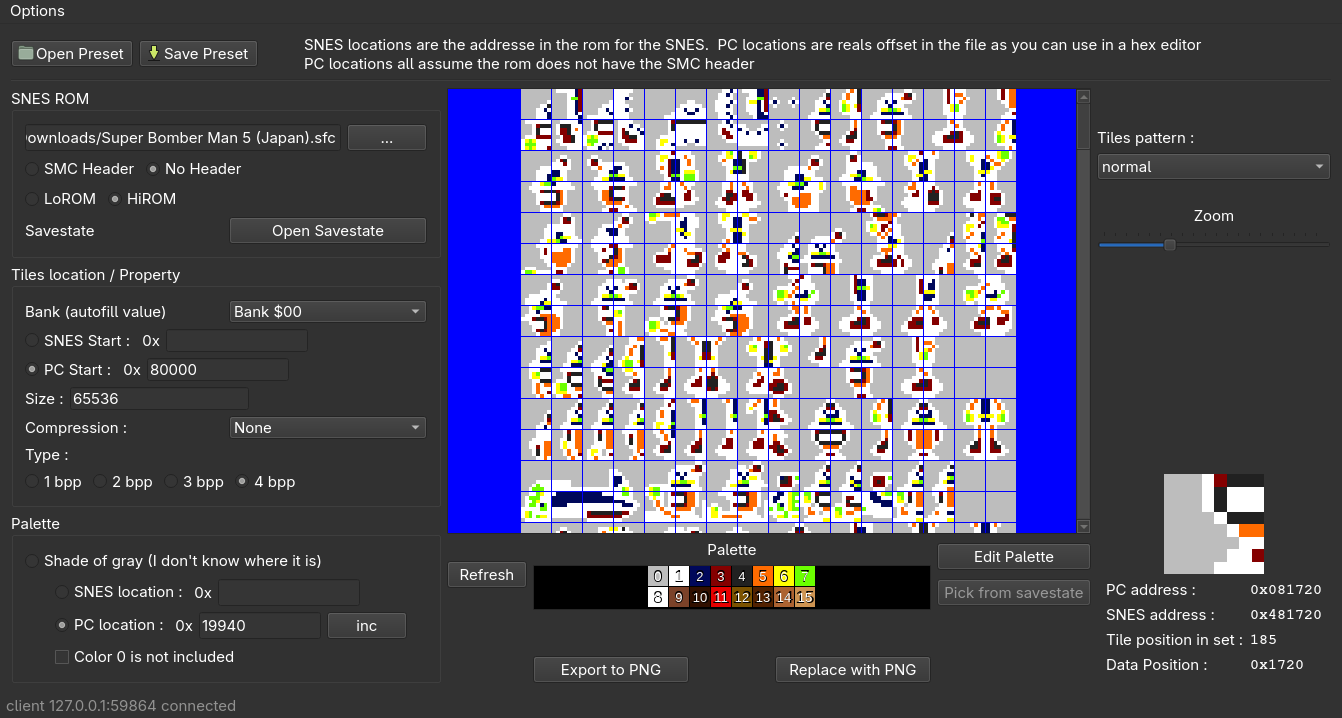
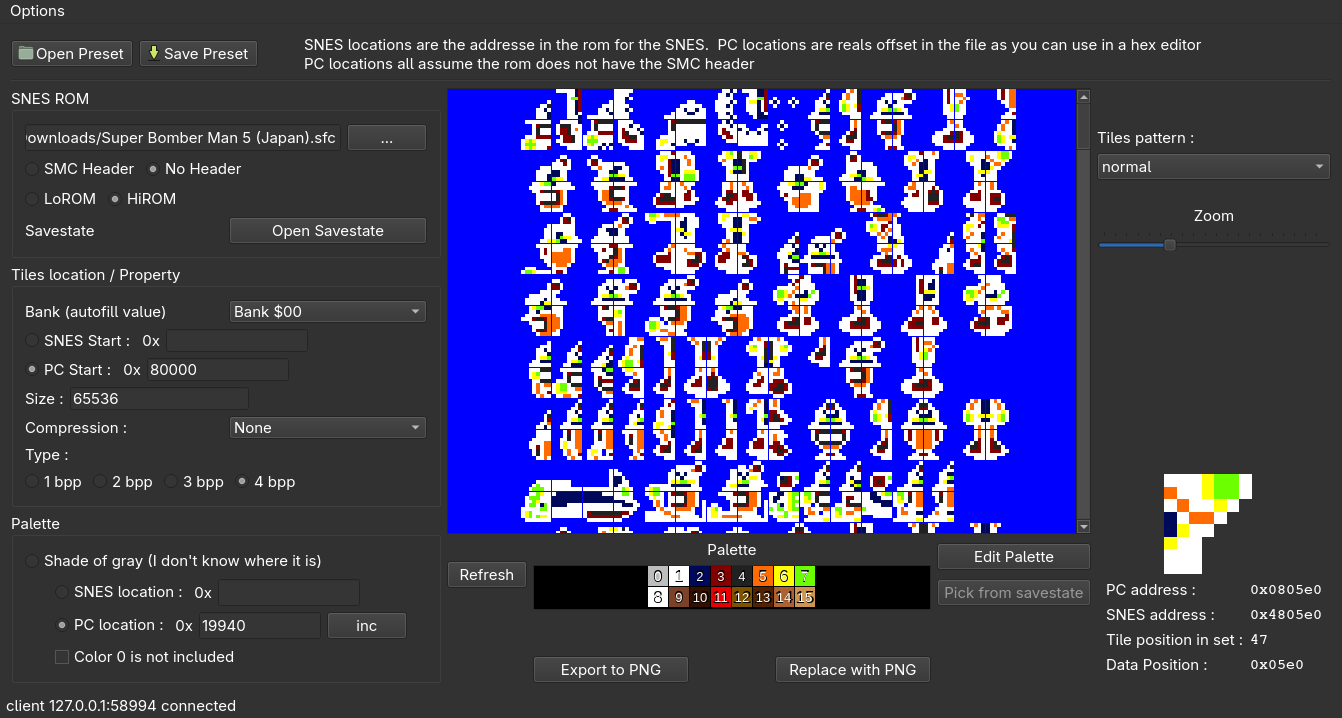
Render SNES color 0 as transparent in the tile view and PNG export
Tile pixel index 0 is transparent on SNES hardware; painting it with the
backdrop palette color made sprites sit on grey boxes. Now color 0 pixels
show the scene background in the view and carry transparency in exported
PNGs. Also update the README screenshot (English UI, Bomberman 5 sprites
with the correct palette).

diff --git a/src/graphicstilesscene.cpp b/src/graphicstilesscene.cpp
@@ -25,6 +25,8 @@ void GraphicsTilesScene::buildScene(const QList<tile8> &tiles, const SNESPalette
             {
                 newImage.setColor(i, mPalette.colors.at(i).rgb);
             }
+            // SNES: color 0 of a tile is transparent (shows the scene behind)
+            newImage.setColor(0, qRgba(0, 0, 0, 0));
             for (int i = 0; i < 8; i++)
             {
                 for (int j = 0; j < 8; j++)

diff --git a/src/pngexportimport.cpp b/src/pngexportimport.cpp
@@ -14,6 +14,8 @@ QImage mergeTilesToImage(const QList<tile8> tiles, const SNESPalette& palette, c
     {
         newImage.setColor(i, palette.colors.at(i).rgb);
     }
+    // SNES: color 0 of a tile is transparent
+    newImage.setColor(0, qRgba(0, 0, 0, 0));
     QString plop = "";
 
 
